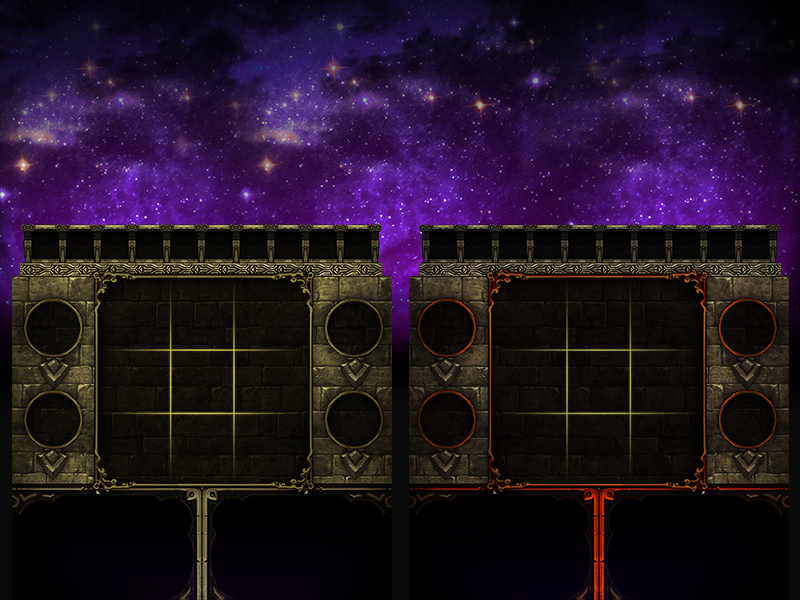
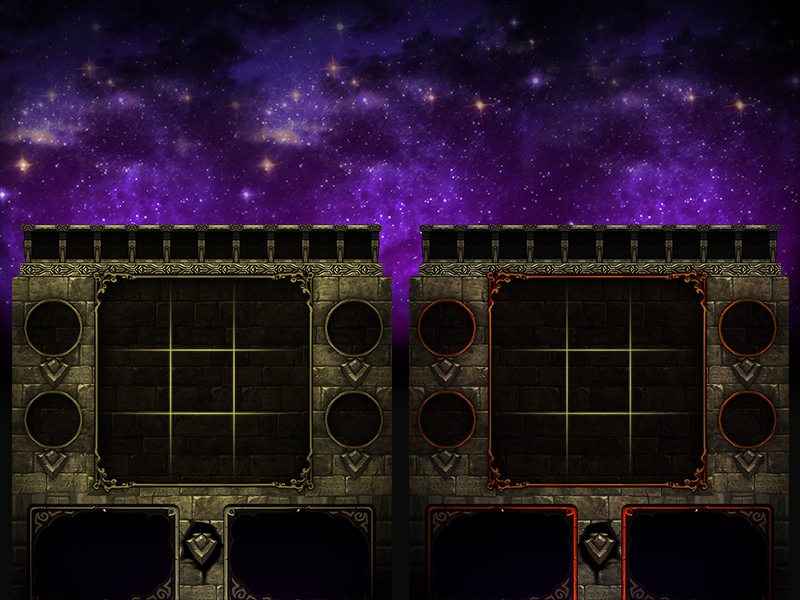
added god 3

Changed region(s): [[0.0, 0.78, 1.0, 1.0]]

diff --git a/src/states/GameState.js b/src/states/GameState.js
@@ -10,7 +10,13 @@ class GameState extends Phaser.State {
     }
 
     preload() {
-        this.game.load.atlasXML('seacreatures', 'assets/sprites/seacreatures.png', 'assets/sprites/seacreatures.xml');
+        let text;
+        this.game.load.onLoadStart.add(function () {
+            text = this.game.add.text(32, 32, "Loading ...", {fill: '#ffffff'});
+        }, this);
+        this.game.load.onLoadComplete.add(function () {
+            text.destroy();
+        }, this);
         this.game.load.atlasXML('ro_Idle', 'assets/sprites/ro_Idle.png', 'assets/sprites/ro_Idle.xml');
         this.game.load.atlasXML('ro_Attack', 'assets/sprites/ro_Attack.png', 'assets/sprites/ro_Attack.xml');
         this.game.load.atlasXML('ro_Full', 'assets/sprites/ro_Full.png', 'assets/sprites/ro_Full.xml');
@@ -21,12 +27,18 @@ class GameState extends Phaser.State {
         this.game.load.atlasXML('daño_h', 'assets/sprites/daño_h.png', 'assets/sprites/daño_h.xml');
         this.game.load.atlasXML('romper_h', 'assets/sprites/romper_h.png', 'assets/sprites/romper_h.xml');
         this.game.load.atlasXML('postura_h', 'assets/sprites/postura_h.png', 'assets/sprites/postura_h.xml');
+
+        this.game.load.atlasXML('pose_m', 'assets/sprites/pose_m.png', 'assets/sprites/pose_m.xml');
+        this.game.load.atlasXML('ataque_m', 'assets/sprites/ataque_m.png', 'assets/sprites/ataque_m.xml');
+        this.game.load.atlasXML('cura_m', 'assets/sprites/cura_m.png', 'assets/sprites/cura_m.xml');
+
         this.game.load.atlasXML('fire', 'assets/sprites/fx_fire.png', 'assets/sprites/fx_fire.xml');
         this.game.load.spritesheet('simbols', 'assets/menu/simbols.png', 252 / 4, 63, 8);
-        this.game.load.spritesheet('skills', 'assets/sprites/skills.png', 80, 80, 24);
+        this.game.load.spritesheet('skills', 'assets/sprites/skills.png', 60, 60, 24);
         this.game.load.image('interfase', 'assets/menu/interfase.jpg');
         this.game.load.image('godFlare', 'assets/particles/blue.png');
         this.game.load.image('lifeFlare', 'assets/particles/yellow.png');
+        this.game.load.image('diamond', 'assets/menu/diamante.png');
         this.game.load.audio('nox1', ['audio/nox1.mp3']);
         this.game.load.audio('gamesound', ['audio/battle.ogg']);
     }
@@ -120,7 +132,7 @@ class GameState extends Phaser.State {
         r3User2Key.onDown.add(this.player2.pressResource.bind(this.player2, 3), this);
         var r4User2Key = this.game.input.keyboard.addKey(Phaser.Keyboard.NUMPAD_ADD);
         r4User2Key.onDown.add(this.player2.pressResource.bind(this.player2, 4), this);
-        this.music = this.add.audio('gamesound',0.2, true);
+        this.music = this.add.audio('gamesound', 0.2, true);
         this.music.play();
     }
 

diff --git a/src/objects/entities/Player.js b/src/objects/entities/Player.js
@@ -13,18 +13,20 @@ class Player {
         this.resource = 0;
         this.direction = 1;
         let lifeX = 5;
+        let x = 200;
         if (this.type == 1) {
             this.direction = -1;
             this.positionGod = [200, 120];
-            this.positionSkills = [10, 240];
+            this.positionSkills = [10, 205];
             this.positionBoard = [108, 290];
             this.positionFlare = [200, 180];
         } else {
             this.positionGod = [600, 120];
-            this.positionSkills = [410, 640];
+            this.positionSkills = [410, 605];
             this.positionBoard = [503, 290];
             this.positionFlare = [620, 180];
             lifeX = 405;
+            x = 600;
         }
         this.godFlare = new GodFlare(this.game, ...this.positionFlare);
         this.board = new Board(game, ...this.positionBoard);
@@ -41,6 +43,7 @@ class Player {
         }
         this.god.show2RandomSkills(...this.positionSkills);
         this.god.setLife(lifeX);
+        this.board.setDiamondX(x);
     }
 
     setEnemy(enemy) {
@@ -61,7 +64,7 @@ class Player {
         let t = 1;
         if (this.type == 1)
             t = 2;
-        this.game.state.start("WinnerState", true, true, t,th);
+        this.game.state.start("WinnerState", true, true, t, th);
     }
 
     attack1() {
@@ -90,6 +93,7 @@ class Player {
             this.godFlare.downgrade();
             this.godFlare.downgrade();
             this.godFlare.downgrade();
+            this.board.disappearDiamond();
         }
     }
 
@@ -127,6 +131,11 @@ class Player {
             if (this.resource != 0) {
                 if (this.board.insertResource(this.resource, cel) && this.resource == 4) {
                     if (this.godFlare.level < 3) {
+                        if (this.godFlare.level == 2) {
+                            this.board.appearDiamond();
+                        } else {
+                            this.board.disappearDiamond();
+                        }
                         this.godFlare.upgrade();
                     }
                 }

diff --git a/src/objects/entities/Board.js b/src/objects/entities/Board.js
@@ -3,7 +3,6 @@ import GodFlare from './GodFlare';
 import Cel from './../sprites/Cel';
 
 class Board {
-
     constructor(game, x, y) {
         this.game = game;
         this.x = x;
@@ -22,6 +21,22 @@ class Board {
         this.sprite4 = this.game.add.sprite(this.x + 210, this.y + 100, 'simbols');
         this.sprite4.frame = 7;
         this.createTimeAleatory();
+    }
+
+    setDiamondX(x) {
+        this.diamond = this.game.add.sprite(0, 0, 'diamond');
+        this.diamond.anchor.set(0.5);
+        this.diamond.x = x;
+        this.diamond.y = 545;
+        this.diamond.alpha = 0;
+    }
+
+    appearDiamond() {
+        this.diamond.alpha = 1;
+    }
+
+    disappearDiamond() {
+        this.diamond.alpha = 0;
     }
 
     logmatrix() {
@@ -75,7 +90,7 @@ class Board {
     }
 
     createResourceAleatory() {
-        var st = [1, 1, 1, 2, 2, 2, 3, 3, 3, 4];
+        var st = [4];
         var num = st[this.randomNumber(st.length - 1, 0)];
         console.log(num);
         this.spritenumber = 0;

diff --git a/src/objects/sprites/God3.js b/src/objects/sprites/God3.js
@@ -3,11 +3,11 @@ import SkillFactory from '../entities/SkillFactory';
 
 class God3 extends God {
     constructor(game, direction, x, y) {
-        super(game, direction, x, y, "ro_Idle", "ro_Attack", "ro_Attack", "ro_Attack", "ro_Attack");
-        this.addSkill('a1', SkillFactory.createSkill('FaithPunch'));
-        this.addSkill('a2', SkillFactory.createSkill('SaintHeal'));
-        this.addSkill('a3', SkillFactory.createSkill('DestroySinner'));
-        this.addSkill('a4', SkillFactory.createSkill('FaithRitual'));
+        super(game, direction, x, y, "pose_m", "ataque_m", "cura_m", "ataque_m", "ataque_m");
+        this.addSkill('a1', SkillFactory.createSkill('Punch3'));
+        this.addSkill('a2', SkillFactory.createSkill('Heal3'));
+        this.addSkill('a3', SkillFactory.createSkill('Destroy3'));
+        this.addSkill('a4', SkillFactory.createSkill('SuperDestroy3'));
     }
 }
 

diff --git a/src/objects/entities/Skill.js b/src/objects/entities/Skill.js
@@ -15,7 +15,7 @@ export default class Skill {
 
     addToGame(game, x, y) {
 
-        this.graphics = game.add.graphics(x + 90, y);
+        this.graphics = game.add.graphics(x + 100, y + 10);
 
         for (var i = 0; i < 3; i++) {
             for (var j = 0; j < 3; j++) {
@@ -79,7 +79,7 @@ export default class Skill {
         game.add.tween(this.text).to({alpha: 1}, 3000, Phaser.Easing.Quadratic.InOut, true);
         game.add.tween(this.text.scale).to({x: 1, y: 1}, 3000, Phaser.Easing.Quadratic.InOut, true);
 
-        this.sprite = game.add.sprite(x, y, 'skills');
+        this.sprite = game.add.sprite(x + 30, y + 10, 'skills');
         this.sprite.frame = this.frame;
         this.sprite.scale.x = 2;
         this.sprite.scale.y = 2;

diff --git a/static/index.html b/static/index.html
@@ -1,13 +1,13 @@
 <!DOCTYPE html>
 <html lang="en">
 <head>
-	<meta charset="UTF-8">
-	<title>Phaser with a sprinkle of ES6 Dust!</title>
-	<link rel="stylesheet" href="styles/main.css">
+    <meta charset="UTF-8">
+    <title>Sanctuarium</title>
+    <link rel="stylesheet" href="styles/main.css">
 </head>
 <body>
-	<div id="content"></div>
-	<script src="scripts/phaser.min.js"></script>
-	<script src="scripts/game.js"></script>
+<div id="content"></div>
+<script src="scripts/phaser.min.js"></script>
+<script src="scripts/game.js"></script>
 </body>
 </html>

diff --git a/src/objects/sprites/God.js b/src/objects/sprites/God.js
@@ -152,8 +152,8 @@ class God extends Phaser.Sprite {
         this.activateSkillKey2 = skills[Math.floor(Math.random() * skills.length)];
         this.activeSkill1 = this.skills[this.activateSkillKey1];
         this.activeSkill2 = this.skills[this.activateSkillKey2];
-        this.activeSkill1.addToGame(this.game, x1, 505);
-        this.activeSkill2.addToGame(this.game, x2, 505);
+        this.activeSkill1.addToGame(this.game, x1, 510);
+        this.activeSkill2.addToGame(this.game, x2, 510);
     }
 
 }
